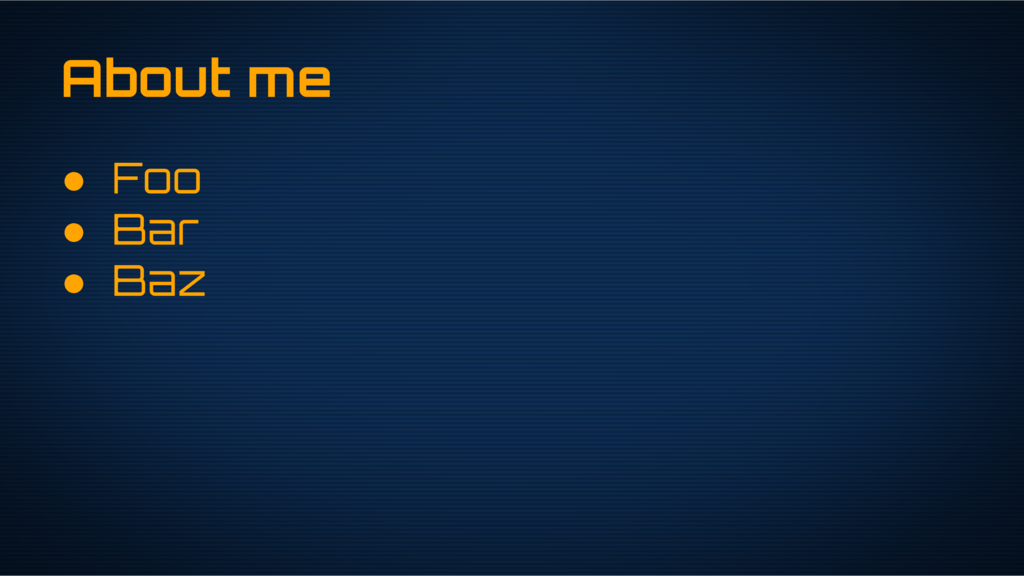
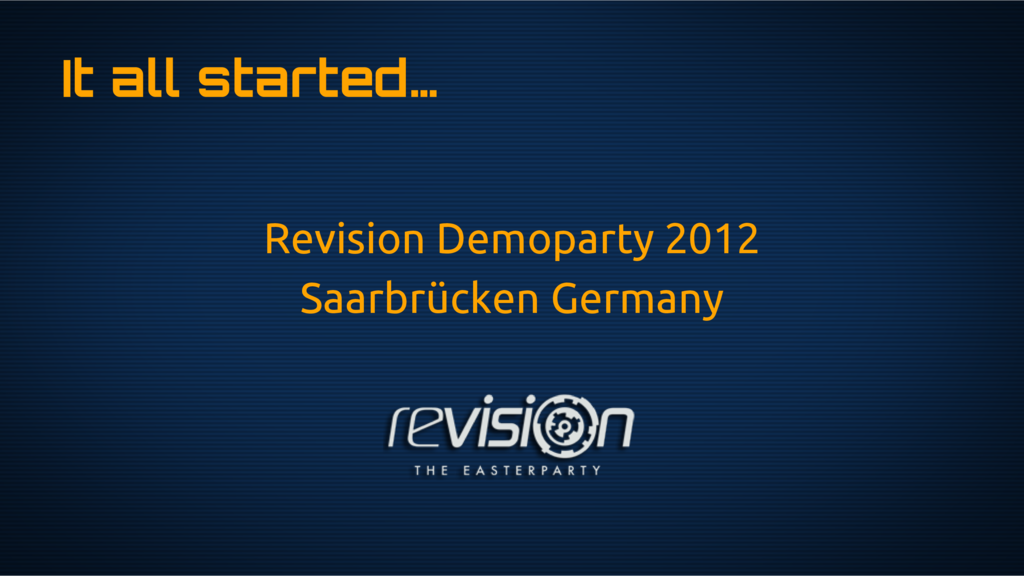
Add slides

diff --git a/src/main_slides.js b/src/main_slides.js
@@ -1,21 +1,11 @@
 require([
     "Colors",
     "SlideScene",
-    "IntroScene",
-    "SoundPlayer",
-    "RoomScene",
-    "CubeScrollerScene"
 ], function(
     Colors,
-    SlideScene,
-    IntroScene,
-    SoundPlayer,
-    RoomScene,
-    CubeScrollerScene
+    SlideScene
 ) {
     var scene = null;
-
-    SoundPlayer.load("sounds/demo-tech.mp3");
 
     var renderer = new THREE.WebGLRenderer( { antialias: false, clearAlpha: 1 } );
     renderer.autoClear = false;
@@ -27,36 +17,12 @@ require([
     resizeViewport();
 
     var renderModel = new THREE.RenderPass();
-    var effectBloom = null;
-    var effectBloomLight = null;
 
-    setScene(IntroScene);
+    setScene(SlideScene);
 
     var composer = InitializeComposer();
 
     $("body").keyup(function(event){ scene.keyEvent(event); event.preventDefault(); });
-
-    SoundPlayer.addListener(function(bar){
-        if(bar == 16){
-            $("canvas").hide();
-            $("body").css("background", "#000082");
-            $("#bsod").show();
-        }
-        if(bar == 17){
-            $("canvas").show();
-            $("body").css("background", "black");
-            $("#bsod").hide();
-            setScene(RoomScene);
-        }
-        if(bar == 33){
-            setScene(CubeScrollerScene);
-        }
-        if(bar == 49){
-            effectBloom.enabled = false;
-            effectBloomLight.enabled= true;
-            setScene(SlideScene);
-        }
-    });
 
     startRenderer();
 
@@ -64,7 +30,6 @@ require([
         var x = 0;
 
         function render() {
-            SoundPlayer.update()
             scene.render();
             requestAnimationFrame(render);
             renderer.clear();
@@ -75,19 +40,14 @@ require([
 
     function InitializeComposer() {
         var effectCopy = new THREE.ShaderPass(THREE.CopyShader);
-        effectBloom = new THREE.BloomPass(1.3);
-        effectBloomLight = new THREE.BloomPass(0.7);
+        var effectBloom = new THREE.BloomPass(0.7);
         var effectVignette = new THREE.ShaderPass(THREE.VignetteShader);
         var width = window.innerWidth || 2;
         var height = window.innerHeight || 2;
         effectCopy.renderToScreen = true;
-
-        effectBloomLight.enabled = false;
-
         var composer = new THREE.EffectComposer(renderer);
         composer.addPass(renderModel);
         composer.addPass(effectBloom);
-        composer.addPass(effectBloomLight);
         composer.addPass(effectVignette);
         composer.addPass(effectCopy);
         return composer;

diff --git a/index_slides.html b/index_slides.html
@@ -1,0 +1,36 @@
+<!DOCTYPE html>
+<html>
+<head>
+    <title>Agile X Presentation</title>
+    <script src="lib/underscore.js"></script>
+    <script src="lib/three.js"></script>
+
+    <script src="lib/shaders/ConvolutionShader.js"></script>
+    <script src="lib/shaders/CopyShader.js"></script>
+    <script src="lib/shaders/FXAAShader.js"></script>
+    <script src="lib/shaders/VignetteShader.js"></script>
+
+    <script src="lib/postprocessing/EffectComposer.js"></script>
+    <script src="lib/postprocessing/MaskPass.js"></script>
+    <script src="lib/postprocessing/RenderPass.js"></script>
+    <script src="lib/postprocessing/ShaderPass.js"></script>
+    <script src="lib/postprocessing/BloomPass.js"></script>
+
+    <script src="lib/jquery-1.11.0.js"></script>
+    <script src="lib/require.js" data-main="src/main_slides"></script>
+    <style>
+        body, html {
+            background: black;
+            margin: 0;
+            padding: 0;
+            overflow: hidden;
+        }
+        canvas {
+            margin: 0;
+            padding: 0;
+        }
+    </style>
+</head>
+<body>
+</body>
+</html>

diff --git a/src/Slides.js b/src/Slides.js
@@ -1,5 +1,5 @@
 define([], function(){
     return [
-        "slide-000.png","slide-001.png"
+        "slide-000.png","slide-001.png","slide-002.png","slide-003.png","slide-004.png","slide-005.png","slide-006.png","slide-007.png","slide-008.png","slide-009.png","slide-010.png","slide-011.png","slide-012.png","slide-013.png","slide-014.png","slide-015.png","slide-016.png","slide-017.png","slide-018.png","slide-019.png","slide-020.png","slide-021.png","slide-022.png","slide-023.png","slide-024.png","slide-025.png","slide-026.png","slide-027.png","slide-028.png","slide-029.png","slide-030.png"
     ];
 })
